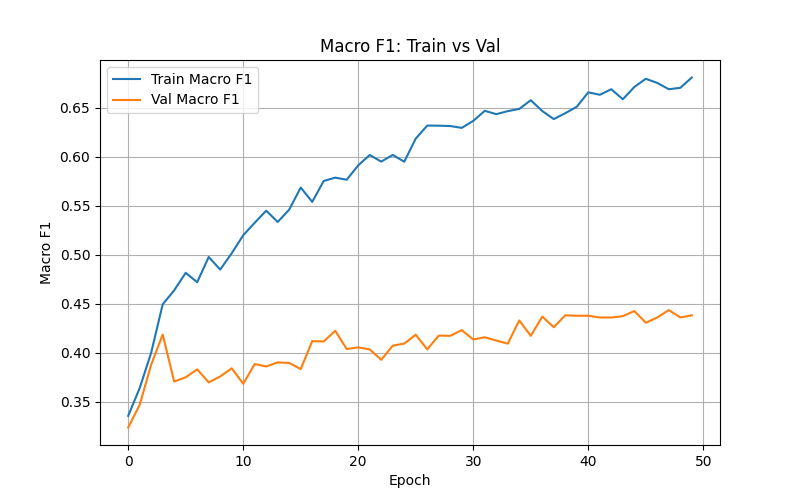
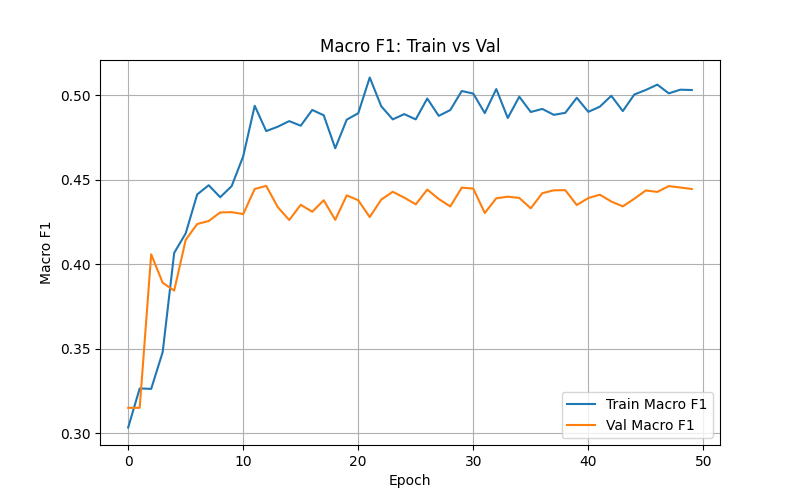
fix: tune lr, weight decay

diff --git a/train/train_cnn_lstm.py b/train/train_cnn_lstm.py
@@ -35,8 +35,8 @@ FEATURE_COLUMN_PATTERN = re.compile(r"^feature(\d+)_t(\d+)$")
 # 학습 전용 하이퍼파라미터
 BATCH_SIZE = 32
 EPOCHS = 50
-LEARNING_RATE = 1e-3
-WEIGHT_DECAY = 1e-5
+LEARNING_RATE = 3e-4
+WEIGHT_DECAY = 3e-4
 SCHEDULER_STEP_SIZE = 10
 SCHEDULER_GAMMA = 0.5
 VAL_RATIO = 0.2
@@ -216,7 +216,7 @@ def train_one_epoch(model, data_loader, criterion, optimizer, device):
         loss.backward()
 
         # gradient clipping: gradient가 너무 커져서 학습이 튀는 것을 방지
-        torch.nn.utils.clip_grad_norm_(model.parameters(), max_norm=10.0)
+        torch.nn.utils.clip_grad_norm_(model.parameters(), max_norm=1.0)
 
         optimizer.step()
 